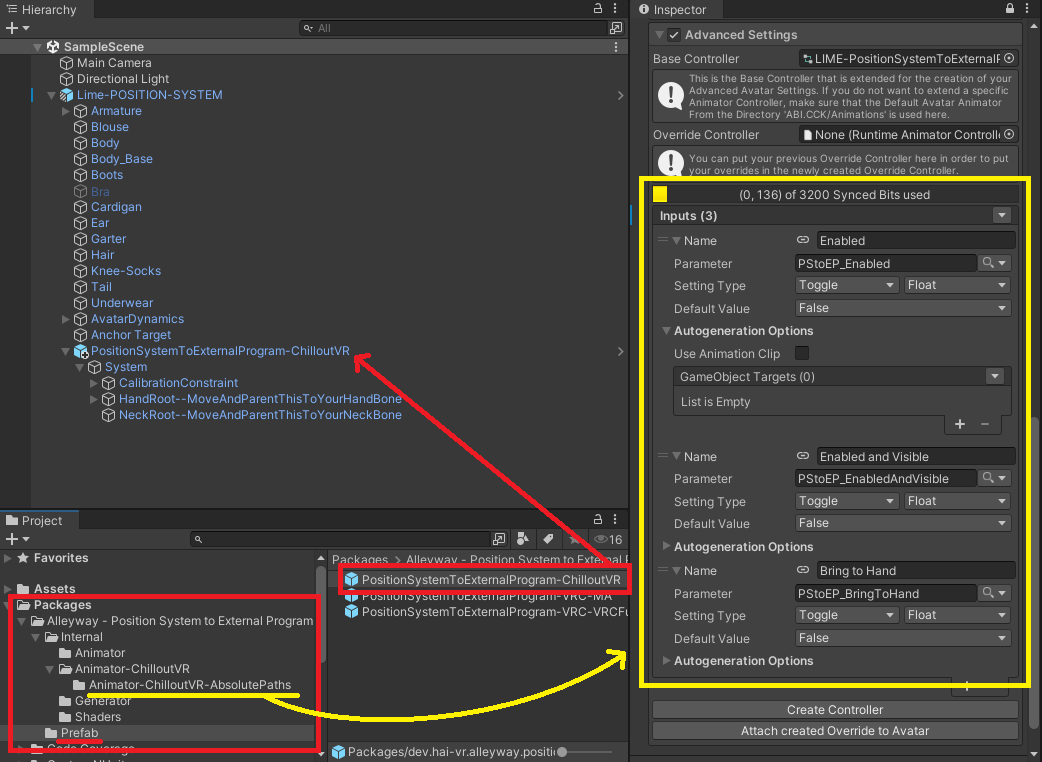
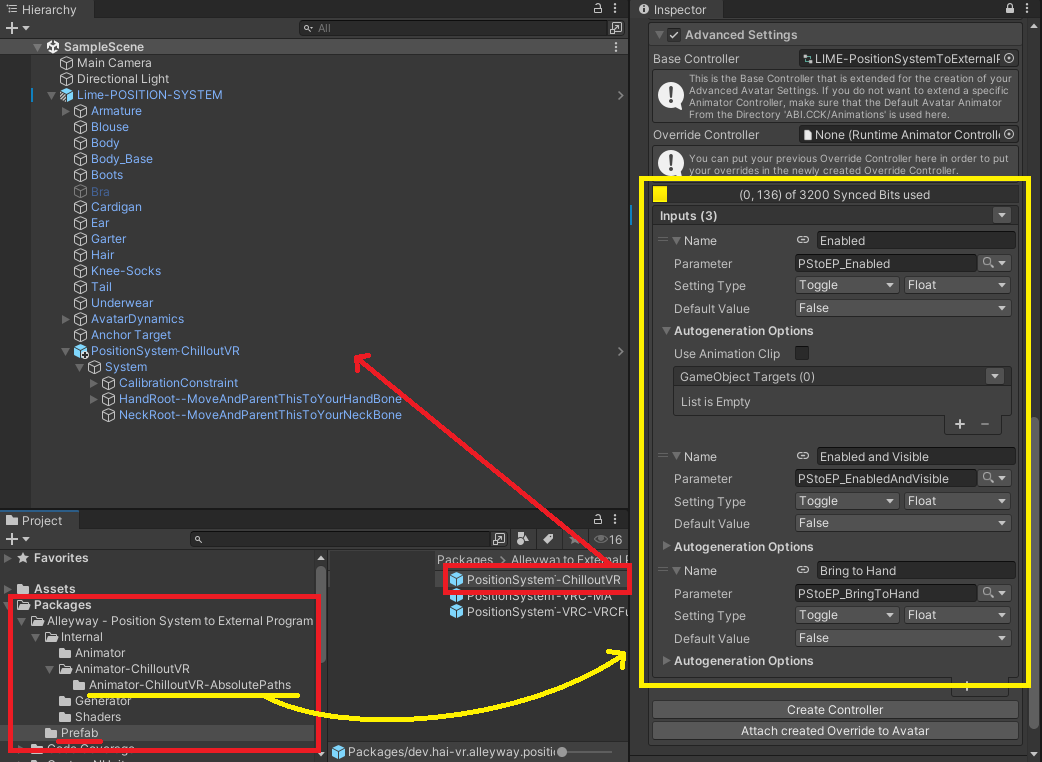
Continue writing.

Changed region(s): [[0.3071, 0.7244, 0.5528, 0.815], [0.1536, 0.4528, 0.3378, 0.4829]]

diff --git a/docs/products/position-system-to-external-program/platform-setup.md b/docs/products/position-system-to-external-program/platform-setup.md
@@ -38,7 +38,7 @@ If you have Modular Avatar, this is the recommended method. If you do not have M
 :::
 
 In the avatar:
-- Add the *PositionSystemToExternalProgram-VRC-MA* prefab to your avatar root.
+- Add the *PositionSystem-VRC-MA* prefab to your avatar root.
 
 ![Unity_vBn2gPNKzq.png](img/Unity_vBn2gPNKzq.png)
 
@@ -50,7 +50,7 @@ You may customize the setup further, the following steps are optional:
     - Its child object *HandPalmDown* will be hovering under your palm, approximately at two hands' distance to your hand.
 
 If you use an avatar optimization tool that merges meshes, exclude this object:
-- `(prefab)/System/CalibrationConstraint/LocalOnly-Toggled/Parent-ReferenceScale/Parent-Rescaled/PositionSystemToExternalProgramEncoder-Mesh`
+- `(prefab)/System/CalibrationConstraint/LocalOnly-Toggled/Parent-ReferenceScale/Parent-Rescaled/PStoEP-Encoder`
 - This mesh is special and must not be converted or simplified.
 
 ## VRChat Avatars SDK using VRCFury
@@ -69,7 +69,7 @@ However, I cannot guarantee that the VRCFury prefab has been set up correctly.
 :::
 
 In the avatar:
-- Add the *PositionSystemToExternalProgram-VRC-VRCFury* prefab to your avatar root.
+- Add the *PositionSystem-VRC-VRCFury* prefab to your avatar root.
 
 ![5bbBMWuP85.png](img/5bbBMWuP85.png)
 
@@ -81,7 +81,7 @@ You may customize the setup further, the following steps are optional:
     - Its child object *HandPalmDown* will be hovering under your palm, approximately at two hands' distance to your hand.
 
 If you use an avatar optimization tool that merges meshes, exclude this object:
-- `(prefab)/System/CalibrationConstraint/LocalOnly-Toggled/Parent-ReferenceScale/Parent-Rescaled/PositionSystemToExternalProgramEncoder-Mesh`
+- `(prefab)/System/CalibrationConstraint/LocalOnly-Toggled/Parent-ReferenceScale/Parent-Rescaled/PStoEP-Encoder`
 - This mesh is special and must not be converted or simplified.
 
 ## VRChat Worlds SDK
@@ -141,7 +141,7 @@ Here are the instructions:
 
 A prefab has been tentatively added.
 
-- Add the *PositionSystemToExternalProgram-ChilloutVR* prefab to your avatar root.
+- Add the *PositionSystem-ChilloutVR* prefab to your avatar root.
 - It **must** be at the avatar root. **Do not rename** the prefab object. The animations depend on it.
 
 ![Unity_XEqPy4mBCe.png](img/Unity_XEqPy4mBCe.png)
@@ -165,8 +165,8 @@ If you want to do this without unpacking the prefab, then do the following inste
 :::
 
 Set up your animator:
-- In the Project view, go to `Packages/Alleyway - Position System to External Program/Internal/Animator/Animator-ChilloutVR/Animator-ChilloutVR-AbsolutePaths/`
-- Open the `PositionSystemToExternalProgram-Animator-CVR-Absolute.controller` animator controller asset file,
+- In the Project view, go to `Packages/Alleyway - Position System/Internal/App-ChilloutVR/AbsolutePaths/`
+- Open the `PositionSystem-Animator-CVR-Absolute.controller` animator controller asset file,
 - Copy the two layers to your own animator.
 
 Set up your *CVR Avatar* component:

diff --git a/docs/products/position-system-to-external-program/changelog.md b/docs/products/position-system-to-external-program/changelog.md
@@ -6,15 +6,54 @@ sidebar_position: 100
 
 ---
 
+## 0.2.0-beta.1
+
+💥 *BREAKING CHANGE: The previous package needs to be removed before installing this new one. Asset GUIDs do not change. Some prefab names change.*
+
+🌕 *Prefab changed. Avatar should be reuploaded using the newest version to benefit from some features.*
+
+**This release contains a breaking change.**
+
+The package name has been shortened to `dev.hai-vr.alleyway.position-system`. This means you must uninstall the previous package before installing this one.
+
+The asset GUIDs do not change, but some prefab names have changed.
+
+The major version does not change because this product has not yet been officially advertised for release.
+
+### Add ChilloutVR prefab base
+
+A ChilloutVR installation procedure is [documented here](https://alleyway.hai-vr.dev/docs/products/position-system-to-external-program/platform-setup#chilloutvr).
+
+### Other
+
+Breaking changes:
+- BREAKING: Package name has been shortened to dev.hai-vr.alleyway.position-system.
+- BREAKING: Rename prefabs to shorten their name.
+- BREAKING: In prefab, shorten mesh encoder name.
+- BREAKING: Separate ChilloutVR and VRChat assets to separate folders.
+- BREAKING: Rename and move many assets to different folders.
+- Due to change in object names:
+  - ChilloutVR absolute path animations have been re-generated.
+  - VRChat relative path animations have been re-generated.
+
+Other:
+- A preview mesh has been added to help the user with scaling the system depending on the avatar height.
+- Put the menu in a submenu.
+- Menu now have icons.
+- GitHub Releases will now include a .unitypackage file.
+
+
+---
+
 ## 0.1.0-beta.7
 
 🌃 *No change in Unity prefab or shader.*
 
-## Add ChilloutVR prefab base
+### Add ChilloutVR prefab base
 
 A ChilloutVR installation procedure is [documented here](https://alleyway.hai-vr.dev/docs/products/position-system-to-external-program/platform-setup#chilloutvr).
 
-## Other
+### Other
 
 - GitHub Releases will now include a .unitypackage file.
 
